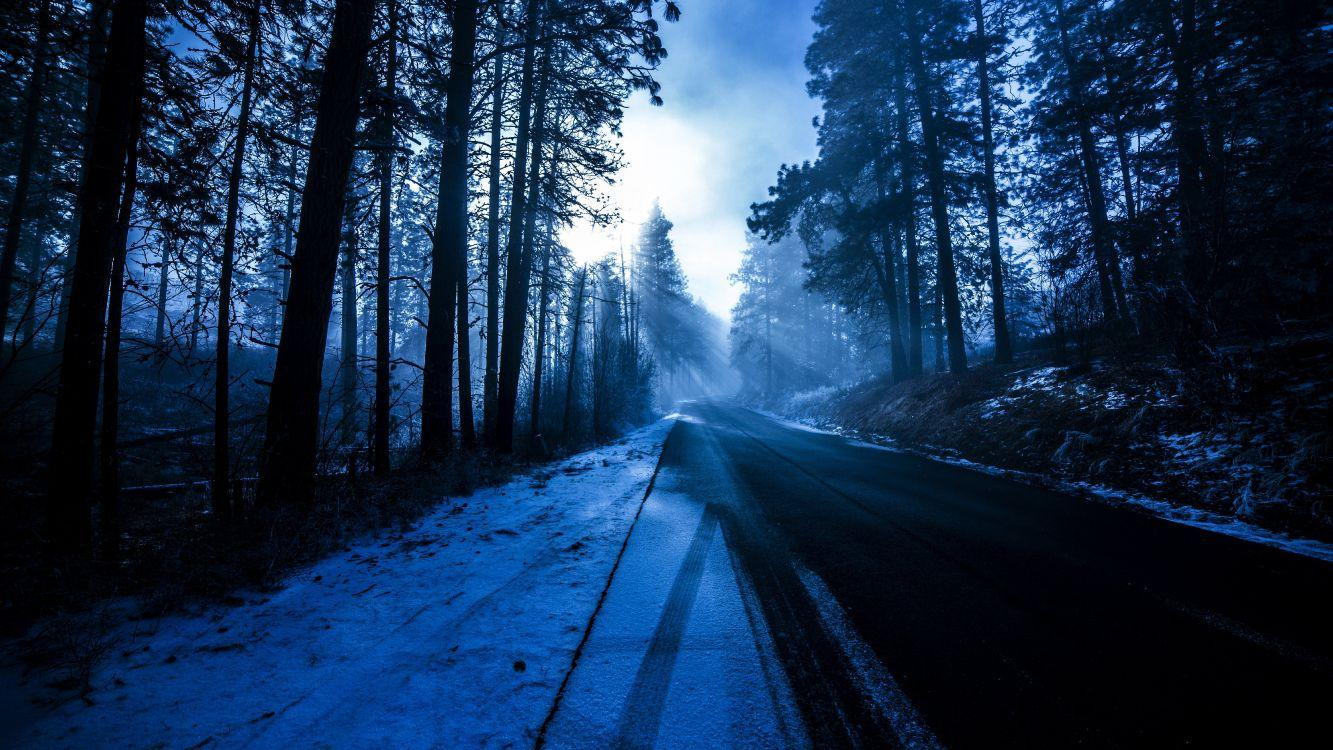
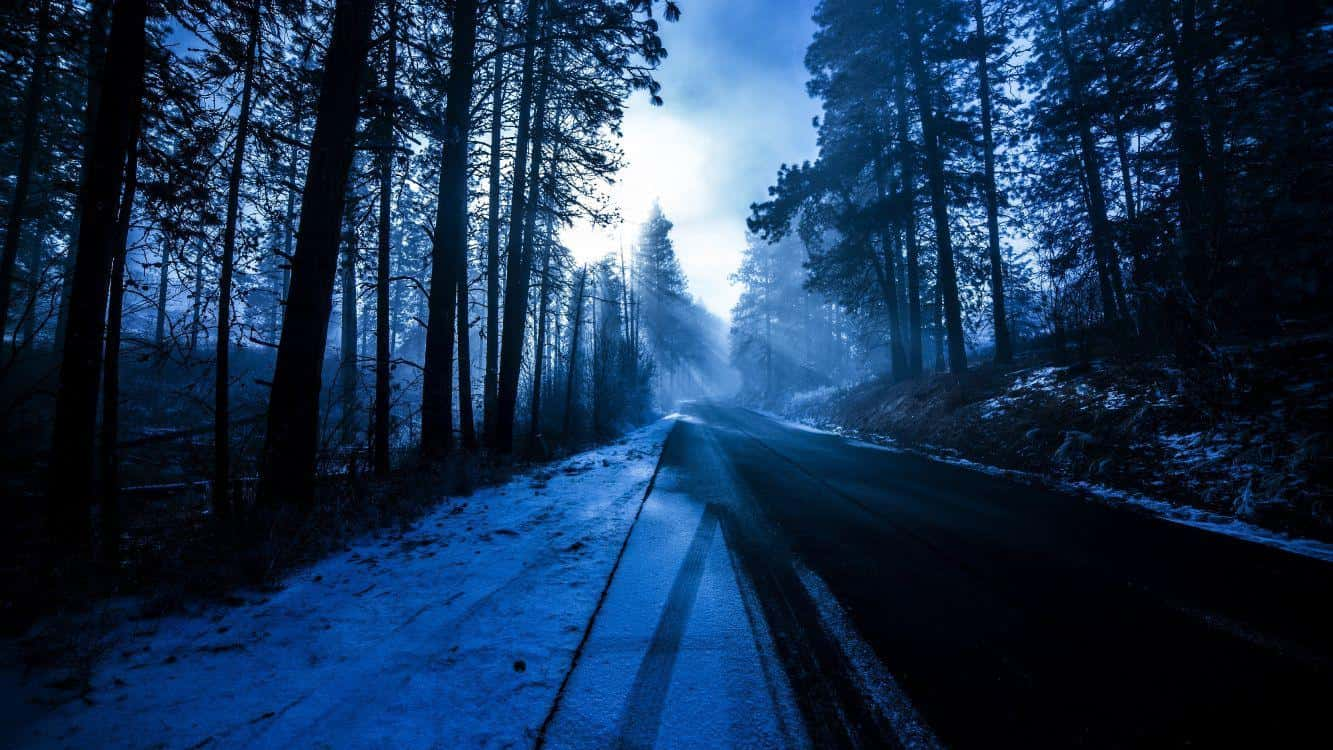
✨ feat: 更新多个背景图片，修改站点链接并添加新图标

diff --git a/src/components/Links.vue b/src/components/Links.vue
@@ -43,7 +43,7 @@
 <script setup>
 import { Icon } from "@vicons/utils";
 // 可前往 https://www.xicons.org 自行挑选并在此处引入
-import { Link, Blog, Compass, Music, CommentDots, NetworkWired, Page4, Leanpub, PhotoVideo, CloudDownloadAlt, InternetExplorer, DiceD6, ArrowAltCircleDown, DotCircle, Linux, BehanceSquare, Image ,Tv ,HandSpock } from "@vicons/fa"; // 注意使用正确的类别
+import { Link, Blog, Compass, Music, CommentDots, NetworkWired, Page4, Leanpub, PhotoVideo, CloudDownloadAlt, InternetExplorer, DiceD6, ArrowAltCircleDown, DotCircle, Linux, BehanceSquare, Image ,Pinterest ,Unlink } from "@vicons/fa"; // 注意使用正确的类别
 import { mainStore } from "@/store";
 import { Swiper, SwiperSlide } from "swiper/vue";
 import { Pagination, Mousewheel } from "swiper/modules";
@@ -79,8 +79,8 @@ const siteIcon = {
   Linux,
   BehanceSquare,
   Image,
-  Tv,
-  HandSpock,
+  Pinterest,
+  Unlink,
 };
 
 // 链接跳转
